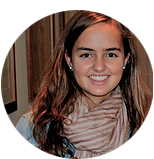
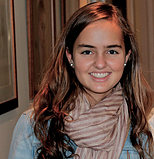
css file, reference images

diff --git a/landing.html b/landing.html
@@ -7,16 +7,23 @@
 	<link rel="stylesheet" href="http://maxcdn.bootstrapcdn.com/bootstrap/3.3.5/css/bootstrap.min.css">
 	<script src="https://ajax.googleapis.com/ajax/libs/jquery/1.11.3/jquery.min.js"></script>
 	<script src="http://maxcdn.bootstrapcdn.com/bootstrap/3.3.5/js/bootstrap.min.js"></script>
+	<link rel="stylesheet1" type="text/css" href="myStyle.css">
 </head>
 <body>
+	<div class="jumbotron" style="color:white;background-color:black;">
+		<h1>Blip</h1>
+		<ul text-size="14" style="list-style-type:circle">
+			<li>We study growth</li>
+			<li>We are Stan, Thomas, Tejas, Gouwei</li>
+			<li>Don't fuck with us</li>
+		</ul>
+	</div>
 	<div class="container">
-		<div class="jumbotron">
-			<h1>Blip</h1>
-			<p>by Stan, Thomas, Tejas, Guowei</p> 
-		</div>
+
 		<div class="row">
 			<div class="col-sm-2">
-				<img src="authorbadge.png" alt="Author" height="125"width="125"/>
+				<h3>Author Name<h3>
+				<img src="authorbadge.png" alt="Author" class="img-circle" height="125"width="125" style="border:3px solid black"/>
 			</div>
 			<div class="col-sm-7">
 				<h3>Blog Title Here</h3>
@@ -29,7 +36,8 @@
 		</div>
 		<div class="row">
 			<div class="col-sm-2">
-				<img src="authorbadge.png" alt="Author" height="125"width="125"/>
+				<h3>Author Name<h3>
+				<img src="authorbadge.png" alt="Author" class="img-circle" height="125"width="125" style="border:3px solid black"/>
 			</div>
 			<div class="col-sm-7">
 				<h3>Blog Title Here</h3>
@@ -40,9 +48,10 @@
 				<img src="http://images2.fanpop.com/images/photos/7000000/Space-Art-Wallpaper-space-7076682-1440-900.jpg" alt="Article Image" height="150" width="200"/>
 			</div>
 		</div>
-			<div class="row">
+		<div class="row">
 				<div class="col-sm-2">
-					<img src="authorbadge.png" alt="Author" height="125"width="125"/>
+					<h3>Author Name<h3>
+					<img src="authorbadge.png" alt="Author" class="img-circle" height="125"width="125" style="border:3px solid black"/>
 				</div>
 				<div class="col-sm-7">
 					<h3>Blog Title Here</h3>
@@ -52,8 +61,8 @@
 				<div class="col-sm-3">
 					<img src="http://images2.fanpop.com/images/photos/7000000/Space-Art-Wallpaper-space-7076682-1440-900.jpg" alt="Article Image" height="150" width="200"/>
 				</div>
-			</div>
 		</div>
+		
 	</div>
 
 </body>

diff --git a/myStyle.css b/myStyle.css
@@ -1,0 +1,11 @@
+
+.jumbotron {
+    margin-bottom: 0px;
+    min-height: 600px;
+    background-image: url(http://wallpaperus.org/wallpapers/04/151/outer-space-6000x3000-wallpaper-1666019.jpg);
+    background-position: 0% 25%;
+    background-size: cover;
+    background-repeat: no-repeat;
+    color: white;
+    text-shadow: black 0.3em 0.3em 0.3em;
+}
